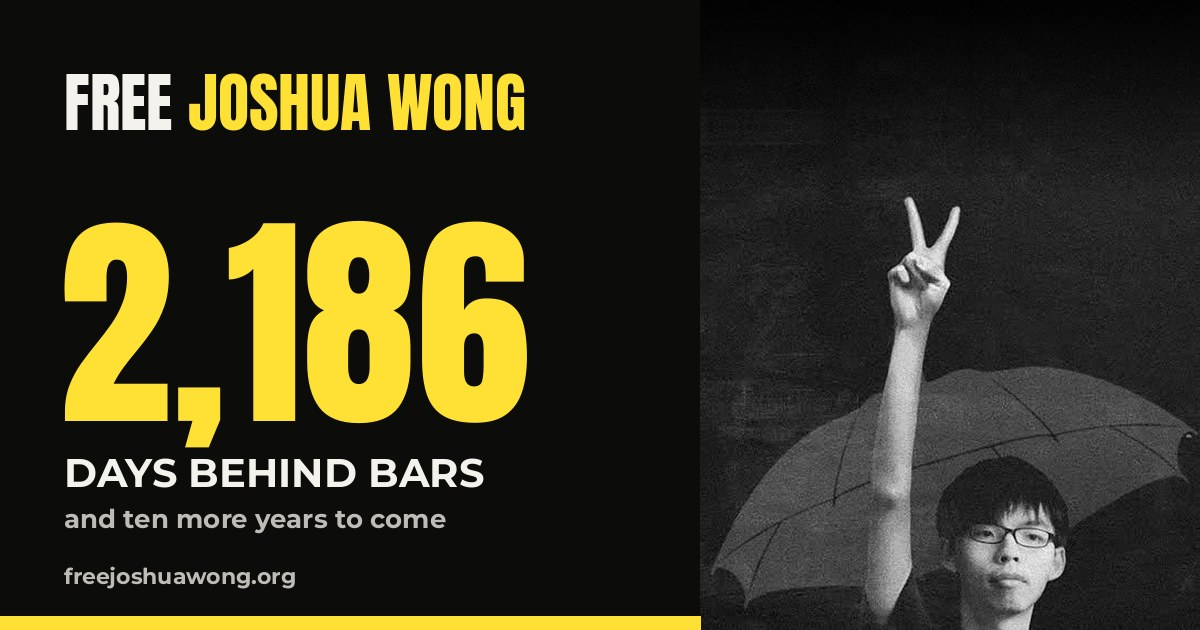
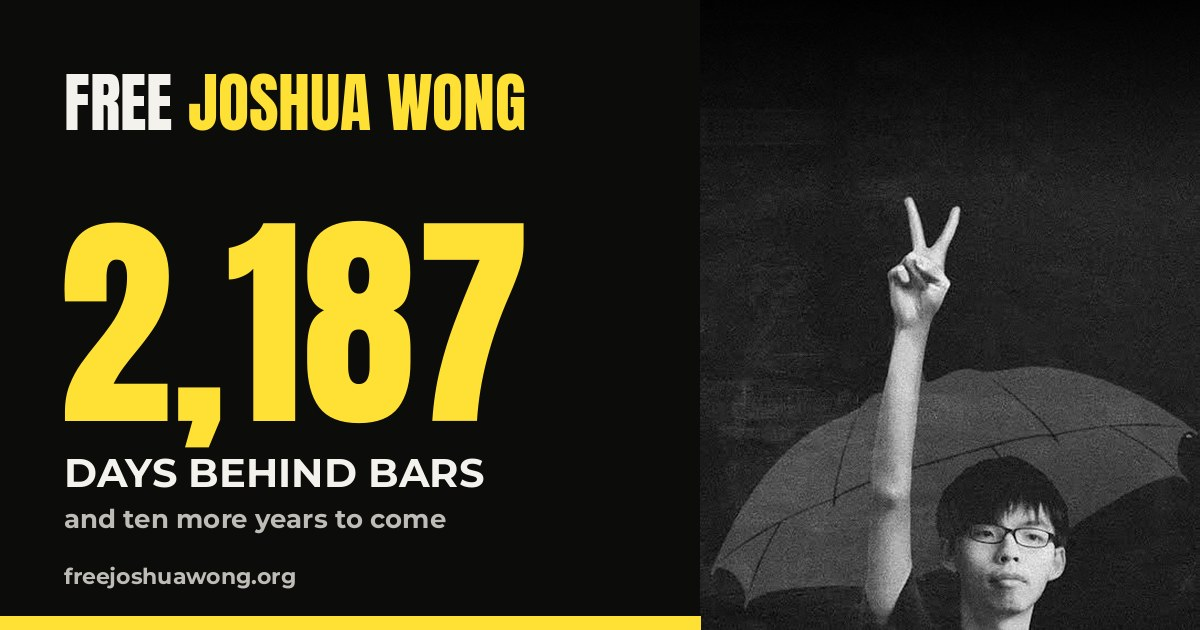
Coverage: Global Voices (18 Nov), Washington Examiner editorial (9 Nov), New Bloom (7 Nov); Global Voices to Latest
Claude-Session: https://claude.ai/code/session_01MmFPUvcnVdr7jbR22AnGcy

Changed region(s): [[0.3392, 0.3317, 0.4625, 0.6937]]

diff --git a/index.html b/index.html
@@ -20,7 +20,7 @@
 <link rel="preconnect" href="https://fonts.googleapis.com">
 <link rel="preconnect" href="https://fonts.gstatic.com" crossorigin>
 <link href="https://fonts.googleapis.com/css2?family=Anton&family=Montserrat:wght@500;600;700;800&family=Newsreader:ital,opsz,wght@0,6..72,300..600;1,6..72,300..500&display=swap" rel="stylesheet">
-<link rel="stylesheet" href="assets/site.css?v=9d562f57">
+<link rel="stylesheet" href="assets/site.css?v=84bf467e">
 <script data-goatcounter="https://freejoshuawong.goatcounter.com/count" async src="https://gc.zgo.at/count.js"></script>
 </head>
 <body>
@@ -43,7 +43,7 @@
       <div class="r now"><span class="y">2026</span><b>Prisoner vs. Superpower</b></div>
       <div class="r cell-row"><span class="y">Now</span>
         <div class="cell" role="timer" aria-label="Days Joshua Wong has spent in prison">
-          <div class="cell-in"><span class="n" id="days" data-jailed="2020-11-23">2,186</span><span class="u">days<br>behind bars</span></div>
+          <div class="cell-in"><span class="n" id="days" data-jailed="2020-11-23">2,187</span><span class="u">days<br>behind bars</span></div>
         </div>
       </div>
     </div>
@@ -102,7 +102,7 @@
       <a href="voices.html#governments"><b>11</b><span>governments, plus the EU, condemned his sentence</span></a>
       <a href="letters/open-letter-prime-minister-sept-2026.html"><b>31</b><span>MPs, peers and rights leaders signed the open letter to the Prime Minister</span></a>
       <a href="parliament.html"><b>15</b><span>times raised in Parliament since the new charge in June 2025</span></a>
-      <a href="newsroom.html"><b>62</b><span>reports, podcasts and editorials since June 2025</span></a>
+      <a href="newsroom.html"><b>65</b><span>reports, podcasts and editorials since June 2025</span></a>
     </div>
   </div>
 </section>
@@ -121,30 +121,30 @@
       <h3>Asked and answered</h3>
       <p class="tk-lede">What ministers have been asked about Joshua since September, and what they have said.</p>
       <div class="wait-row">
-        <div class="wait-n"><span data-since="2026-11-10">8</span><small>days since 10 Nov</small></div>
+        <div class="wait-n"><span data-since="2026-11-10">9</span><small>days since 10 Nov</small></div>
         <div><em class="tk-st st-due">Awaiting answer</em><h4>Has the Foreign Secretary summoned the Chinese Ambassador over Joshua?</h4><p>Written question from Alex Barros-Curtis MP, one of seven tabled after the sentence. The answer was due on 12 November and is now overdue. <a href="https://questions-statements.parliament.uk/written-questions/detail/2026-11-10/41576" target="_blank" rel="noopener">The question</a></p></div>
       </div>
       <div class="wait-row">
-        <div class="wait-n"><span data-since="2026-11-10">8</span><small>days since 10 Nov</small></div>
+        <div class="wait-n"><span data-since="2026-11-10">9</span><small>days since 10 Nov</small></div>
         <div><em class="tk-st st-weak">No action</em><h4>Summon the Ambassador and call for Joshua’s release, as the Government did for Jimmy Lai</h4><p>Emily Darlington MP in the Commons. The Security Minister said the Government “share the concerns” but made no commitment. <a href="parliament.html#exchange-nov">Watch the exchange</a></p></div>
       </div>
       <div class="wait-row">
-        <div class="wait-n"><span data-since="2026-11-03">15</span><small>days since 3 Nov</small></div>
+        <div class="wait-n"><span data-since="2026-11-03">16</span><small>days since 3 Nov</small></div>
         <div><em class="tk-st st-weak">No action</em><h4>Will Joshua’s treatment count in decisions on China’s new embassy?</h4><p>Written question from Alex Barros-Curtis MP. The Government said it does not comment on ongoing legal proceedings. <a href="https://questions-statements.parliament.uk/written-questions/detail/2026-10-22/37356" target="_blank" rel="noopener">The answer</a></p></div>
       </div>
       <div class="wait-row">
-        <div class="wait-n"><span data-since="2026-09-13">66</span><small>days since 13 Sep</small></div>
+        <div class="wait-n"><span data-since="2026-09-13">67</span><small>days since 13 Sep</small></div>
         <div><em class="tk-st st-none">No reply</em><h4>Summon China’s Ambassador to raise Joshua’s case</h4><p><a href="letters/open-letter-prime-minister-sept-2026.html">The open letter to the Prime Minister</a>, Andy Burnham, signed by 31 MPs, peers and rights leaders. No reply. <a href="letters/open-letter-prime-minister-sept-2026.html">Read the letter</a></p></div>
       </div>
       <div class="wait-row">
-        <div class="wait-n"><span data-since="2026-09-08">71</span><small>days since 8 Sep</small></div>
+        <div class="wait-n"><span data-since="2026-09-08">72</span><small>days since 8 Sep</small></div>
         <div><em class="tk-st st-weak">No action</em><h4>What has the UK said to Hong Kong about Joshua’s case?</h4><p>Six written questions from Gregory Stafford MP. One answer for all six: the Government “continues to monitor” the case. <a href="https://qna.files.parliament.uk/qnadailyreports/Written-Questions-Answers-Statements-Daily-Report-Commons-2026-09-08.pdf" target="_blank" rel="noopener">Read the answer (p.478)</a></p></div>
       </div>
       <div class="wait-row">
-        <div class="wait-n"><span data-since="2026-09-01">78</span><small>days since 1 Sep</small></div>
+        <div class="wait-n"><span data-since="2026-09-01">79</span><small>days since 1 Sep</small></div>
         <div><em class="tk-st st-noupdate">No update</em><h4>Take Joshua’s case up with China</h4><p>Sir Iain Duncan Smith in the Commons. The Foreign Secretary, Ed Miliband, said he would. No update has been made public. <a href="parliament.html#exchange">Watch the exchange</a></p></div>
       </div>
-      <p class="tk-foot">For comparison: when Jimmy Lai was convicted on 15 December 2025, the Foreign Office <a href="https://www.gov.uk/government/news/statement-fcdo-summons-chinese-ambassador-15-december-2025" target="_blank" rel="noopener">summoned the Chinese Ambassador the same day</a>. Joshua was sentenced <b data-since="2026-11-05">13</b> days ago. There has been no public word of the Ambassador being summoned over his case.</p>
+      <p class="tk-foot">For comparison: when Jimmy Lai was convicted on 15 December 2025, the Foreign Office <a href="https://www.gov.uk/government/news/statement-fcdo-summons-chinese-ambassador-15-december-2025" target="_blank" rel="noopener">summoned the Chinese Ambassador the same day</a>. Joshua was sentenced <b data-since="2026-11-05">14</b> days ago. There has been no public word of the Ambassador being summoned over his case.</p>
     </div>
     <p class="h4-more"><a href="case.html">Read the full case</a></p>
   </div>
@@ -185,7 +185,7 @@ Yours sincerely,
 <section class="h4-news">
   <div class="wrap">
     <div class="h4-news-head"><h2>Latest coverage</h2><a class="h4-link" href="newsroom.html">All coverage and statements</a></div>
-    <ul class="newslist"><li><a href="https://www.washingtonpost.com/opinions/2026/11/17/joshua-wong-apec-call-hong-kong-bluff/" target="_blank" rel="noopener"><span class="o">The Washington Post · Opinion</span><span class="h">Joshua Wong and the APEC summit: calling Hong Kong’s bluff</span><span class="d">17 Nov 2026</span></a></li><li><a href="https://latintimes.com/joshua-wong-10-year-sentence-hong-kong-601373" target="_blank" rel="noopener"><span class="o">Latin Times</span><span class="h">Joshua’s earliest release date pushed into the mid-2030s</span><span class="d">15 Nov 2026</span></a></li><li><a href="https://www.abc.net.au/news/2026-11-16/federal-politics-live-blog-senate-gas-nov-16/107388656" target="_blank" rel="noopener"><span class="o">Australian Senate</span><span class="h">“Some call it collusion. I call it courage.” Senator Raff Ciccone on Joshua’s sentence</span><span class="d">16 Nov 2026</span></a></li><li><a href="letters/times-letter-nov-2026.html" target="_blank" rel="noopener"><span class="o">The Times · Letters</span><span class="h">Unjust prosecution: MPs and peers ask what Britain will do for Joshua Wong</span><span class="d">11 Nov 2026</span></a></li><li><a href="https://podcasts.apple.com/gb/podcast/today-in-focus/id1440133626?i=1000801652639" target="_blank" rel="noopener"><span class="o">The Guardian · Today in Focus</span><span class="h">Podcast: Teen prodigy, Netflix star, prisoner, with Nathan Law</span><span class="d">13 Nov 2026</span></a></li></ul>
+    <ul class="newslist"><li><a href="https://globalvoices.org/2026/11/18/who-will-respond-jailed-hong-kong-pro-democracy-activist-joshua-wong-fears-being-forgotten-amid-10-year-sentence/" target="_blank" rel="noopener"><span class="o">Global Voices</span><span class="h">‘Who will respond?’ Joshua fears being forgotten amid his 10-year sentence</span><span class="d">18 Nov 2026</span></a></li><li><a href="https://www.washingtonpost.com/opinions/2026/11/17/joshua-wong-apec-call-hong-kong-bluff/" target="_blank" rel="noopener"><span class="o">The Washington Post · Opinion</span><span class="h">Joshua Wong and the APEC summit: calling Hong Kong’s bluff</span><span class="d">17 Nov 2026</span></a></li><li><a href="https://latintimes.com/joshua-wong-10-year-sentence-hong-kong-601373" target="_blank" rel="noopener"><span class="o">Latin Times</span><span class="h">Joshua’s earliest release date pushed into the mid-2030s</span><span class="d">15 Nov 2026</span></a></li><li><a href="https://www.abc.net.au/news/2026-11-16/federal-politics-live-blog-senate-gas-nov-16/107388656" target="_blank" rel="noopener"><span class="o">Australian Senate</span><span class="h">“Some call it collusion. I call it courage.” Senator Raff Ciccone on Joshua’s sentence</span><span class="d">16 Nov 2026</span></a></li><li><a href="https://podcasts.apple.com/gb/podcast/today-in-focus/id1440133626?i=1000801652639" target="_blank" rel="noopener"><span class="o">The Guardian · Today in Focus</span><span class="h">Podcast: Teen prodigy, Netflix star, prisoner, with Nathan Law</span><span class="d">13 Nov 2026</span></a></li></ul>
   </div>
 </section>
 </main>
@@ -229,7 +229,7 @@ window.addEventListener('DOMContentLoaded',function(){
     <div>
       <div class="brand">Free <span>Joshua Wong</span></div>
       <p>A campaign for the release of Joshua Wong, the Hong Kong democracy campaigner in prison since November 2020.</p>
-      <p class="updated" style="font-size:12px;opacity:.6">Last updated 18 November 2026</p>
+      <p class="updated" style="font-size:12px;opacity:.6">Last updated 19 November 2026</p>
     </div>
     <div class="cols">
       <nav aria-label="Footer">
@@ -244,6 +244,6 @@ window.addEventListener('DOMContentLoaded',function(){
   </div>
 </footer>
 <script src="assets/messages.js"></script>
-<script src="assets/site.js?v=9d562f57"></script>
+<script src="assets/site.js?v=84bf467e"></script>
 </body>
 </html>

diff --git a/parliament.html b/parliament.html
@@ -20,7 +20,7 @@
 <link rel="preconnect" href="https://fonts.googleapis.com">
 <link rel="preconnect" href="https://fonts.gstatic.com" crossorigin>
 <link href="https://fonts.googleapis.com/css2?family=Anton&family=Montserrat:wght@500;600;700;800&family=Newsreader:ital,opsz,wght@0,6..72,300..600;1,6..72,300..500&display=swap" rel="stylesheet">
-<link rel="stylesheet" href="assets/site.css?v=9d562f57">
+<link rel="stylesheet" href="assets/site.css?v=84bf467e">
 <script data-goatcounter="https://freejoshuawong.goatcounter.com/count" async src="https://gc.zgo.at/count.js"></script>
 </head>
 <body>
@@ -128,7 +128,7 @@
           <div class="px-role">Foreign Secretary</div>
           <p>Said he would take up Joshua’s case.</p>
         </div>
-        <div class="px-count"><b data-since="2026-09-01">78</b><span>days since that promise.<br>No update has been made public.</span></div>
+        <div class="px-count"><b data-since="2026-09-01">79</b><span>days since that promise.<br>No update has been made public.</span></div>
         <div data-share data-url="https://freejoshuawong.org/parliament.html" data-text="The Foreign Secretary promised to take up Joshua Wong’s case. No update since. #FreeJoshuaWong #JoshuaWong"></div>
       </div>
     </div>
@@ -186,7 +186,7 @@
         <div><div class="rec-who">Written questions · Gregory Stafford MP <span class="pty pty-con" title="Conservative">Con</span></div><h3>Six questions, one answer</h3><p>Gregory Stafford MP asked six questions on Joshua’s case, including what representations the UK has made to the Hong Kong authorities and its assessment of the rule of law in his case. Minister Chris Elmore gave a single answer: the Government continues to monitor the case, reports on it in the six-monthly reports, and repeats its call for the National Security Law to be repealed.</p><a class="src" href="https://qna.files.parliament.uk/qnadailyreports/Written-Questions-Answers-Statements-Daily-Report-Commons-2026-09-08.pdf" target="_blank" rel="noopener">Daily Report, p.478</a></div>
       </article><article class="rec" data-k="commons" id="rec-2026-09-01">
         <div class="rec-d"><span>1 Sep 2026</span><em class="k-commons">Commons</em></div>
-        <div><div class="rec-who">Foreign Office Questions · House of Commons</div><h3>“Enough is enough”</h3><p>Sir Iain Duncan Smith urged the Government to raise Joshua’s case with Beijing. Foreign Secretary Ed Miliband said he would take it up. No update has been made public since.</p><div class="rec-wait"><b data-since="2026-09-01">78</b> days, no update</div><a class="src" href="#exchange">Watch the exchange</a></div>
+        <div><div class="rec-who">Foreign Office Questions · House of Commons</div><h3>“Enough is enough”</h3><p>Sir Iain Duncan Smith urged the Government to raise Joshua’s case with Beijing. Foreign Secretary Ed Miliband said he would take it up. No update has been made public since.</p><div class="rec-wait"><b data-since="2026-09-01">79</b> days, no update</div><a class="src" href="#exchange">Watch the exchange</a></div>
       </article><article class="rec" data-k="lords">
         <div class="rec-d"><span>17 Dec 2025</span><em class="k-lords">Lords</em></div>
         <div><div class="rec-who">Jimmy Lai Conviction · House of Lords</div><h3>Named in the Lords after Jimmy Lai’s conviction</h3><p>Lord Alton asked what the Government is doing to raise the cases of pro-democracy prisoners “such as Joshua Wong and Andy Li”.</p><a class="src" href="https://hansard.parliament.uk/Lords/2025-12-17/debates/6CF28FA8-3A92-4C34-808D-A4BDD6322D85/JimmyLaiConviction" target="_blank" rel="noopener">Read the debate</a></div>
@@ -235,7 +235,7 @@
     <div>
       <div class="brand">Free <span>Joshua Wong</span></div>
       <p>A campaign for the release of Joshua Wong, the Hong Kong democracy campaigner in prison since November 2020.</p>
-      <p class="updated" style="font-size:12px;opacity:.6">Last updated 18 November 2026</p>
+      <p class="updated" style="font-size:12px;opacity:.6">Last updated 19 November 2026</p>
     </div>
     <div class="cols">
       <nav aria-label="Footer">
@@ -249,6 +249,6 @@
     </div>
   </div>
 </footer>
-<script src="assets/site.js?v=9d562f57"></script>
+<script src="assets/site.js?v=84bf467e"></script>
 </body>
 </html>

diff --git a/assets/press.js b/assets/press.js
@@ -18,6 +18,9 @@ window.PRESS = [
   {date:"2026-11-06", outlet:"The Guardian (via inkl)", type:"opinion", region:"UK", moment:"sentence", by:"Nathan Law", title:"Hong Kong’s prisoners are China’s signal to the world: there is no hope for democracy on its soil", url:"https://www.inkl.com/news/hong-kongs-prisoners-are-chinas-signal-to-the-world-there-is-no-hope-for-democracy-on-its-soil"},
   {date:"2026-11-13", outlet:"The Guardian · Today in Focus", type:"news", region:"UK", moment:"sentence", title:"Podcast: Teen prodigy, Netflix star, prisoner — the story of Hong Kong dissident Joshua Wong, with Nathan Law", url:"https://podcasts.apple.com/gb/podcast/today-in-focus/id1440133626?i=1000801652639"},
   // ---- Sentence, November 2026
+  {date:"2026-11-18", outlet:"Global Voices", type:"news", region:"Global", moment:"sentence", title:"‘Who will respond?’: Jailed Hong Kong pro-democracy activist Joshua Wong fears being forgotten amid 10-year sentence", url:"https://globalvoices.org/2026/11/18/who-will-respond-jailed-hong-kong-pro-democracy-activist-joshua-wong-fears-being-forgotten-amid-10-year-sentence/"},
+  {date:"2026-11-09", outlet:"Washington Examiner", type:"opinion", region:"US", moment:"sentence", by:"Editorial", title:"What America should learn from Joshua Wong’s persecution", url:"https://www.washingtonexaminer.com/opinion/editorials/4794050/america-joshua-wong-china-lessons-democracy/"},
+  {date:"2026-11-07", outlet:"New Bloom", type:"opinion", region:"Asia", moment:"sentence", by:"Brian Hioe", title:"The country that has forgotten Joshua Wong", url:"https://newbloommag.net/2026/11/07/joshua-wong-sentencing/"},
   {date:"2026-11-15", outlet:"Latin Times", type:"news", region:"US", moment:"sentence", title:"Joshua Wong’s earliest release date pushed into the mid-2030s after Hong Kong court adds 10-year sentence", url:"https://latintimes.com/joshua-wong-10-year-sentence-hong-kong-601373"},
   {date:"2026-11-09", outlet:"The Tribune (India)", type:"news", region:"Asia", moment:"sentence", title:"Uyghur Human Rights Project condemns 10-year jail sentence for Joshua Wong, calls for immediate release", url:"https://www.tribuneindia.com/news/beijing-crackdown-dissent/uyghur-human-rights-project-condemns-10-year-jail-sentence-for-hong-kong-activist-joshua-wong-calls-for-immediate-release"},
   {date:"2026-11-05", outlet:"Hong Kong Law & Policy", type:"opinion", region:"US", moment:"sentence", by:"Samuel Bickett", title:"Joshua Wong’s 10-year sentence and the danger it exposes for US-based Hongkongers", url:"https://samuelbickett.substack.com/p/joshua-wongs-10-year-sentence-and"},

diff --git a/zh.html b/zh.html
@@ -21,7 +21,7 @@
 <link rel="preconnect" href="https://fonts.googleapis.com">
 <link rel="preconnect" href="https://fonts.gstatic.com" crossorigin>
 <link href="https://fonts.googleapis.com/css2?family=Anton&family=Montserrat:wght@500;600;700;800&family=Newsreader:ital,opsz,wght@0,6..72,300..600;1,6..72,300..500&display=swap" rel="stylesheet">
-<link rel="stylesheet" href="assets/site.css?v=9d562f57">
+<link rel="stylesheet" href="assets/site.css?v=84bf467e">
 <script data-goatcounter="https://freejoshuawong.goatcounter.com/count" async src="https://gc.zgo.at/count.js"></script>
 </head>
 <body>
@@ -44,7 +44,7 @@
 <div class="wrap"><p class="zh-demand">召見中國大使，釋放黃之鋒。</p></div>
 <section class="zh" style="border-top:0;padding-top:20px">
   <div class="wrap zh-body">
-    <div class="zh-count"><b data-since="2020-11-23">2186</b><span>日<br>身陷囹圄</span></div>
+    <div class="zh-count"><b data-since="2020-11-23">2187</b><span>日<br>身陷囹圄</span></div>
 
     <h2 class="zh-h">他是誰</h2>
     <p>黃之鋒十四歲時與同學創立學民思潮，2012年帶領反對國民教育科的運動。2014年雨傘運動期間，他是學生領袖之一。2016年，他與羅冠聰等人創立香港眾志。</p>
@@ -108,7 +108,7 @@
     <div>
       <div class="brand">Free <span>Joshua Wong</span></div>
       <p>A campaign for the release of Joshua Wong, the Hong Kong democracy campaigner in prison since November 2020.</p>
-      <p class="updated" style="font-size:12px;opacity:.6">Last updated 18 November 2026</p>
+      <p class="updated" style="font-size:12px;opacity:.6">Last updated 19 November 2026</p>
     </div>
     <div class="cols">
       <nav aria-label="Footer">
@@ -122,6 +122,6 @@
     </div>
   </div>
 </footer>
-<script src="assets/site.js?v=9d562f57"></script>
+<script src="assets/site.js?v=84bf467e"></script>
 </body>
 </html>

diff --git a/newsroom.html b/newsroom.html
@@ -20,7 +20,7 @@
 <link rel="preconnect" href="https://fonts.googleapis.com">
 <link rel="preconnect" href="https://fonts.gstatic.com" crossorigin>
 <link href="https://fonts.googleapis.com/css2?family=Anton&family=Montserrat:wght@500;600;700;800&family=Newsreader:ital,opsz,wght@0,6..72,300..600;1,6..72,300..500&display=swap" rel="stylesheet">
-<link rel="stylesheet" href="assets/site.css?v=9d562f57">
+<link rel="stylesheet" href="assets/site.css?v=84bf467e">
 <script data-goatcounter="https://freejoshuawong.goatcounter.com/count" async src="https://gc.zgo.at/count.js"></script>
 </head>
 <body>
@@ -135,7 +135,7 @@
     <div>
       <div class="brand">Free <span>Joshua Wong</span></div>
       <p>A campaign for the release of Joshua Wong, the Hong Kong democracy campaigner in prison since November 2020.</p>
-      <p class="updated" style="font-size:12px;opacity:.6">Last updated 18 November 2026</p>
+      <p class="updated" style="font-size:12px;opacity:.6">Last updated 19 November 2026</p>
     </div>
     <div class="cols">
       <nav aria-label="Footer">
@@ -149,7 +149,7 @@
     </div>
   </div>
 </footer>
-<script src="assets/press.js?v=9d562f57"></script>
-<script src="assets/site.js?v=9d562f57"></script>
+<script src="assets/press.js?v=84bf467e"></script>
+<script src="assets/site.js?v=84bf467e"></script>
 </body>
 </html>

diff --git a/socials.html b/socials.html
@@ -20,7 +20,7 @@
 <link rel="preconnect" href="https://fonts.googleapis.com">
 <link rel="preconnect" href="https://fonts.gstatic.com" crossorigin>
 <link href="https://fonts.googleapis.com/css2?family=Anton&family=Montserrat:wght@500;600;700;800&family=Newsreader:ital,opsz,wght@0,6..72,300..600;1,6..72,300..500&display=swap" rel="stylesheet">
-<link rel="stylesheet" href="assets/site.css?v=9d562f57">
+<link rel="stylesheet" href="assets/site.css?v=84bf467e">
 <script data-goatcounter="https://freejoshuawong.goatcounter.com/count" async src="https://gc.zgo.at/count.js"></script>
 </head>
 <body>
@@ -78,7 +78,7 @@
     <div>
       <div class="brand">Free <span>Joshua Wong</span></div>
       <p>A campaign for the release of Joshua Wong, the Hong Kong democracy campaigner in prison since November 2020.</p>
-      <p class="updated" style="font-size:12px;opacity:.6">Last updated 18 November 2026</p>
+      <p class="updated" style="font-size:12px;opacity:.6">Last updated 19 November 2026</p>
     </div>
     <div class="cols">
       <nav aria-label="Footer">
@@ -92,7 +92,7 @@
     </div>
   </div>
 </footer>
-<script src="assets/socials.js?v=9d562f57"></script>
-<script src="assets/site.js?v=9d562f57"></script>
+<script src="assets/socials.js?v=84bf467e"></script>
+<script src="assets/site.js?v=84bf467e"></script>
 </body>
 </html>

diff --git a/voices.html b/voices.html
@@ -20,7 +20,7 @@
 <link rel="preconnect" href="https://fonts.googleapis.com">
 <link rel="preconnect" href="https://fonts.gstatic.com" crossorigin>
 <link href="https://fonts.googleapis.com/css2?family=Anton&family=Montserrat:wght@500;600;700;800&family=Newsreader:ital,opsz,wght@0,6..72,300..600;1,6..72,300..500&display=swap" rel="stylesheet">
-<link rel="stylesheet" href="assets/site.css?v=9d562f57">
+<link rel="stylesheet" href="assets/site.css?v=84bf467e">
 <script data-goatcounter="https://freejoshuawong.goatcounter.com/count" async src="https://gc.zgo.at/count.js"></script>
 </head>
 <body>
@@ -95,7 +95,7 @@
     <div>
       <div class="brand">Free <span>Joshua Wong</span></div>
       <p>A campaign for the release of Joshua Wong, the Hong Kong democracy campaigner in prison since November 2020.</p>
-      <p class="updated" style="font-size:12px;opacity:.6">Last updated 18 November 2026</p>
+      <p class="updated" style="font-size:12px;opacity:.6">Last updated 19 November 2026</p>
     </div>
     <div class="cols">
       <nav aria-label="Footer">
@@ -109,7 +109,7 @@
     </div>
   </div>
 </footer>
-<script src="assets/voices.js?v=9d562f57"></script>
-<script src="assets/site.js?v=9d562f57"></script>
+<script src="assets/voices.js?v=84bf467e"></script>
+<script src="assets/site.js?v=84bf467e"></script>
 </body>
 </html>

diff --git a/act.html b/act.html
@@ -20,7 +20,7 @@
 <link rel="preconnect" href="https://fonts.googleapis.com">
 <link rel="preconnect" href="https://fonts.gstatic.com" crossorigin>
 <link href="https://fonts.googleapis.com/css2?family=Anton&family=Montserrat:wght@500;600;700;800&family=Newsreader:ital,opsz,wght@0,6..72,300..600;1,6..72,300..500&display=swap" rel="stylesheet">
-<link rel="stylesheet" href="assets/site.css?v=9d562f57">
+<link rel="stylesheet" href="assets/site.css?v=84bf467e">
 <script data-goatcounter="https://freejoshuawong.goatcounter.com/count" async src="https://gc.zgo.at/count.js"></script>
 </head>
 <body>
@@ -128,7 +128,7 @@ Yours sincerely,
     <div>
       <div class="brand">Free <span>Joshua Wong</span></div>
       <p>A campaign for the release of Joshua Wong, the Hong Kong democracy campaigner in prison since November 2020.</p>
-      <p class="updated" style="font-size:12px;opacity:.6">Last updated 18 November 2026</p>
+      <p class="updated" style="font-size:12px;opacity:.6">Last updated 19 November 2026</p>
     </div>
     <div class="cols">
       <nav aria-label="Footer">
@@ -142,6 +142,6 @@ Yours sincerely,
     </div>
   </div>
 </footer>
-<script src="assets/site.js?v=9d562f57"></script>
+<script src="assets/site.js?v=84bf467e"></script>
 </body>
 </html>

diff --git a/write.html b/write.html
@@ -20,7 +20,7 @@
 <link rel="preconnect" href="https://fonts.googleapis.com">
 <link rel="preconnect" href="https://fonts.gstatic.com" crossorigin>
 <link href="https://fonts.googleapis.com/css2?family=Anton&family=Montserrat:wght@500;600;700;800&family=Newsreader:ital,opsz,wght@0,6..72,300..600;1,6..72,300..500&display=swap" rel="stylesheet">
-<link rel="stylesheet" href="assets/site.css?v=9d562f57">
+<link rel="stylesheet" href="assets/site.css?v=84bf467e">
 <script data-goatcounter="https://freejoshuawong.goatcounter.com/count" async src="https://gc.zgo.at/count.js"></script>
 </head>
 <body>
@@ -100,7 +100,7 @@
     <div>
       <div class="brand">Free <span>Joshua Wong</span></div>
       <p>A campaign for the release of Joshua Wong, the Hong Kong democracy campaigner in prison since November 2020.</p>
-      <p class="updated" style="font-size:12px;opacity:.6">Last updated 18 November 2026</p>
+      <p class="updated" style="font-size:12px;opacity:.6">Last updated 19 November 2026</p>
     </div>
     <div class="cols">
       <nav aria-label="Footer">
@@ -115,6 +115,6 @@
   </div>
 </footer>
 <script src="assets/messages.js"></script>
-<script src="assets/site.js?v=9d562f57"></script>
+<script src="assets/site.js?v=84bf467e"></script>
 </body>
 </html>

diff --git a/letters/open-letter-prime-minister-sept-2026.html b/letters/open-letter-prime-minister-sept-2026.html
@@ -20,7 +20,7 @@
 <link rel="preconnect" href="https://fonts.googleapis.com">
 <link rel="preconnect" href="https://fonts.gstatic.com" crossorigin>
 <link href="https://fonts.googleapis.com/css2?family=Anton&family=Montserrat:wght@500;600;700;800&family=Newsreader:ital,opsz,wght@0,6..72,300..600;1,6..72,300..500&display=swap" rel="stylesheet">
-<link rel="stylesheet" href="../assets/site.css?v=9d562f57">
+<link rel="stylesheet" href="../assets/site.css?v=84bf467e">
 <script data-goatcounter="https://freejoshuawong.goatcounter.com/count" async src="https://gc.zgo.at/count.js"></script>
 </head>
 <body>
@@ -77,7 +77,7 @@
     <div>
       <div class="brand">Free <span>Joshua Wong</span></div>
       <p>A campaign for the release of Joshua Wong, the Hong Kong democracy campaigner in prison since November 2020.</p>
-      <p class="updated" style="font-size:12px;opacity:.6">Last updated 18 November 2026</p>
+      <p class="updated" style="font-size:12px;opacity:.6">Last updated 19 November 2026</p>
     </div>
     <div class="cols">
       <nav aria-label="Footer">
@@ -91,6 +91,6 @@
     </div>
   </div>
 </footer>
-<script src="../assets/site.js?v=9d562f57"></script>
+<script src="../assets/site.js?v=84bf467e"></script>
 </body>
 </html>

diff --git a/letters/times-letter-nov-2026.html b/letters/times-letter-nov-2026.html
@@ -20,7 +20,7 @@
 <link rel="preconnect" href="https://fonts.googleapis.com">
 <link rel="preconnect" href="https://fonts.gstatic.com" crossorigin>
 <link href="https://fonts.googleapis.com/css2?family=Anton&family=Montserrat:wght@500;600;700;800&family=Newsreader:ital,opsz,wght@0,6..72,300..600;1,6..72,300..500&display=swap" rel="stylesheet">
-<link rel="stylesheet" href="../assets/site.css?v=9d562f57">
+<link rel="stylesheet" href="../assets/site.css?v=84bf467e">
 <script data-goatcounter="https://freejoshuawong.goatcounter.com/count" async src="https://gc.zgo.at/count.js"></script>
 </head>
 <body>
@@ -70,7 +70,7 @@
     <div>
       <div class="brand">Free <span>Joshua Wong</span></div>
       <p>A campaign for the release of Joshua Wong, the Hong Kong democracy campaigner in prison since November 2020.</p>
-      <p class="updated" style="font-size:12px;opacity:.6">Last updated 18 November 2026</p>
+      <p class="updated" style="font-size:12px;opacity:.6">Last updated 19 November 2026</p>
     </div>
     <div class="cols">
       <nav aria-label="Footer">
@@ -84,6 +84,6 @@
     </div>
   </div>
 </footer>
-<script src="../assets/site.js?v=9d562f57"></script>
+<script src="../assets/site.js?v=84bf467e"></script>
 </body>
 </html>

diff --git a/voices/alicia-kearns-mp-2026-11-05.html b/voices/alicia-kearns-mp-2026-11-05.html
@@ -20,7 +20,7 @@
 <link rel="preconnect" href="https://fonts.googleapis.com">
 <link rel="preconnect" href="https://fonts.gstatic.com" crossorigin>
 <link href="https://fonts.googleapis.com/css2?family=Anton&family=Montserrat:wght@500;600;700;800&family=Newsreader:ital,opsz,wght@0,6..72,300..600;1,6..72,300..500&display=swap" rel="stylesheet">
-<link rel="stylesheet" href="../assets/site.css?v=9d562f57">
+<link rel="stylesheet" href="../assets/site.css?v=84bf467e">
 <script data-goatcounter="https://freejoshuawong.goatcounter.com/count" async src="https://gc.zgo.at/count.js"></script>
 </head>
 <body>
@@ -57,7 +57,7 @@
     <div>
       <div class="brand">Free <span>Joshua Wong</span></div>
       <p>A campaign for the release of Joshua Wong, the Hong Kong democracy campaigner in prison since November 2020.</p>
-      <p class="updated" style="font-size:12px;opacity:.6">Last updated 18 November 2026</p>
+      <p class="updated" style="font-size:12px;opacity:.6">Last updated 19 November 2026</p>
     </div>
     <div class="cols">
       <nav aria-label="Footer">
@@ -71,6 +71,6 @@
     </div>
   </div>
 </footer>
-<script src="../assets/site.js?v=9d562f57"></script>
+<script src="../assets/site.js?v=84bf467e"></script>
 </body>
 </html>
